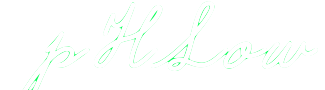
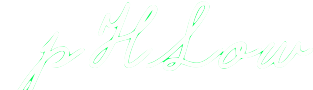
New Stuff.

diff --git a/index.html b/index.html
@@ -1,6 +1,7 @@
 <!DOCTYPE html>
 <html lang="en">
   <head>
+    <link href='http://fonts.googleapis.com/css?family=Raleway:500' rel='stylesheet' type='text/css'>
     <meta charset="utf-8">
     <meta http-equiv="X-UA-Compatible" content="IE=edge">
     <meta name="viewport" content="width=device-width, initial-scale=1">
@@ -8,7 +9,7 @@
     <meta name="author" content="">
     <link rel="shortcut icon" href="../../assets/ico/favicon.ico">
 
-    <title>GuardN</title>
+    <title>pHLow</title>
 
     <!-- Bootstrap core CSS -->
     <link href="css/bootstrap.min.css" rel="stylesheet">
@@ -37,7 +38,7 @@
             <span class="icon-bar"></span>
             <span class="icon-bar"></span>
           </button>
-          <a class="navbar-brand" href="#">GuardN</a>
+          <h1 class="p" style="color:white"> pHLow</h1>
         </div>
         <div class="navbar-collapse collapse newnavbar">
           <form class="navbar-form navbar-right" role="form">
@@ -63,7 +64,7 @@
       <div class="container">
       
         <h1 style="color:white">When in drought, we bring you lawn-and-order</h1>
-        <p style="color:white" ><img src="img/guardNlogo.png" alt=" " /> delivers a smart sprinkler system that decreases the environmental impact of water waste and lowers landscaping costs for the average homeowner. 
+        <p style="color:white" >pHLow delivers a smart sprinkler system that decreases the environmental impact of water waste and lowers landscaping costs for the average homeowner. 
         </p>
         
       </div>
@@ -95,7 +96,7 @@
       <div class="row" style="float:left">
 
         <div class="col-md-8">
-        <img style="height:auto; width:auto; max-width:300px; max-height:300px;" src="img/product-icon.png" alt=" " />
+        <img style="height:auto; width:auto; max-width:300px; max-height:300px;" src="img/product.png" alt=" " />
         </div>
 
         
@@ -132,7 +133,7 @@
       <hr>
 
       <footer>
-        <p>&copy; GuardN 2014</p>
+        <p>&copy; pHLow 2014</p>
       </footer>
     </div> <!-- /container -->
 

diff --git a/css/main.css b/css/main.css
@@ -13,3 +13,9 @@
 	background-color: #EBDDE2;
 	color: #FFFFFF ;
 }
+
+
+p {
+font-family: 'Raleway:50';
+font-size: 12px;
+}
